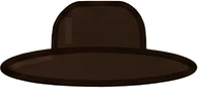
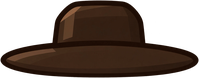
Fit the refined drifter torsos, cowboy hat and weapon arms
Each arm gets a red and a blue sleeve to match the vest (red) or plain (blue) shirt.

Claude-Session: https://claude.ai/code/session_01BFBgQDRtwohmswCU4dZyTG

diff --git a/src/config.js b/src/config.js
@@ -192,7 +192,13 @@ function lookFor(type, boss, rng) {
           hat: 'hat_undertaker', arm_revolver: 'arm_revolver_undertaker', leg: 'leg_undertaker', armor: 'none' } };
     default:
       if (boss) return base;
-      return { ...base, ...art(base.vest ? 'torso_vest' : 'torso_plain', base.bandana ? 'head_bandana' : 'head', 'hat_cowboy') };
+      {
+        // Refined drifter art: a red shirt with a vest or a plain blue shirt, with sleeves to match
+        const look = { ...base, ...art(base.vest ? 'torso_vest' : 'torso_plain', base.bandana ? 'head_bandana' : 'head', 'hat_cowboy') };
+        const sleeve = base.vest ? 'red' : 'blue';
+        Object.assign(look.artParts, { arm_revolver: `arm_revolver_${sleeve}`, arm_shotgun: `arm_shotgun_${sleeve}` });
+        return look;
+      }
   }
 }
 

diff --git a/tools/fit_drifter_parts.py b/tools/fit_drifter_parts.py
@@ -1,0 +1,110 @@
+# Fit the refined drifter parts (the plain outlaws) and add them to the outlaw art set.
+#
+#   python3 -I tools/fit_drifter_parts.py docs/character-parts/refined/drifter public/art/outlaw
+#   cp public/art/outlaw/manifest.json src/art/outlaw.json
+#
+# Torsos are scaled by height (top at y = -93, belt bottom at the hips, 49 units), the cowboy hat by brim
+# width (66 units), arms by sleeve thickness (15 units, shoulder 7 units in). Drifters wear a red shirt
+# (vest torso) or a blue one (plain torso), so each weapon arm is saved with a red and a blue sleeve:
+# the sleeve (everything left of the hand) is recoloured, keeping its shading. Requires Pillow.
+import colorsys, glob, json, sys
+from PIL import Image
+
+SRC, OUT = sys.argv[1], sys.argv[2]
+PPU = 3
+SLEEVES = {'red': (177, 43, 38), 'blue': (39, 63, 96)}  # sampled from the two torsos
+
+def load_im(name):
+    return Image.open(glob.glob(f"{SRC}/drifter_{name}.*")[0]).convert('RGBA')
+
+def alpha(im):
+    a = im.getchannel('A').point(lambda v: 255 if v > 60 else 0)
+    return a, a.getbbox()
+
+def span_row(a, y):
+    xs = [x for x in range(a.size[0]) if a.getpixel((x, y))]
+    return (min(xs), max(xs))
+
+def span_col(a, x):
+    ys = [y for y in range(a.size[1]) if a.getpixel((x, y))]
+    return (min(ys), max(ys))
+
+def emit(key, im, bbox, ppu, anchor_px, anchor_game, extra=None):
+    m = 4
+    l, t = max(0, bbox[0] - m), max(0, bbox[1] - m)
+    r, b = min(im.width, bbox[2] + m), min(im.height, bbox[3] + m)
+    crop = im.crop((l, t, r, b))
+    k = PPU / ppu
+    out = crop.resize((max(1, round(crop.width * k)), max(1, round(crop.height * k))), Image.LANCZOS)
+    out.save(f"{OUT}/{key}.png")
+    info = {"file": f"{key}.png", "size": [out.width, out.height],
+            "anchor_px": [round((anchor_px[0] - l) * k, 1), round((anchor_px[1] - t) * k, 1)],
+            "anchor_game": anchor_game, "src_ppu": round(ppu, 2)}
+    if extra: info.update(extra)
+    return info
+
+def is_skin(c):
+    r, g, b = c[:3]
+    return c[3] > 200 and r > 200 and g > 140 and b > 90 and r - b > 60
+
+def recolour_sleeve(im, target):
+    """Give the sleeve (left of the hand) the target colour, keeping light and shade; outlines stay."""
+    im = im.copy()
+    px = im.load()
+    w, h = im.size
+    hand_x = min(x for x in range(w) for y in range(0, h, 4) if is_skin(px[x, y]))
+    # the sleeve's own colour: the most common non-outline colour in its middle
+    a, bb = alpha(im)
+    cy = (bb[1] + bb[3]) // 2
+    samples = sorted(px[x, cy][:3] for x in range(bb[0] + 40, hand_x - 40, 7) if px[x, cy][3] > 200)
+    base = samples[len(samples) // 2]
+    bh, bl, bs = colorsys.rgb_to_hls(*[v / 255 for v in base])
+    th, tl, ts = colorsys.rgb_to_hls(*[v / 255 for v in target])
+    for y in range(h):
+        for x in range(hand_x):
+            r, g, b, al = px[x, y]
+            if al == 0:
+                continue
+            hh, ll, ss = colorsys.rgb_to_hls(r / 255, g / 255, b / 255)
+            # sleeve pixels share the base colour's hue; the dark brown outline doesn't
+            if abs(((hh - bh + 0.5) % 1) - 0.5) > 0.08 or ss < bs * 0.4:
+                continue
+            nl = max(0, min(1, tl * ll / bl))
+            nr, ng, nb = colorsys.hls_to_rgb(th, nl, ts)
+            px[x, y] = (round(nr * 255), round(ng * 255), round(nb * 255), al)
+    return im
+
+def arm(key, im):
+    a, bb = alpha(im)
+    W = bb[2] - bb[0]
+    y1, y2 = span_col(a, bb[0] + int(W * 0.12))
+    ppu = (y2 - y1) / 15.0
+    pivot = (bb[0] + 7.0 * ppu, (y1 + y2) / 2)
+    bx = bb[2] - 6
+    b1, b2 = span_col(a, bx)
+    muzzle = [round((bx - pivot[0]) / ppu, 1), round(((b1 + b2) / 2 - pivot[1]) / ppu, 1)]
+    return emit(key, im, bb, ppu, pivot, [0, 0], {"muzzle": muzzle})
+
+manifest = json.load(open(f"{OUT}/manifest.json"))
+
+for key in ('torso_vest', 'torso_plain'):
+    im = load_im(key)
+    a, bb = alpha(im)
+    ppu = (bb[3] - bb[1]) / 49.0
+    manifest[key] = emit(key, im, bb, ppu, ((bb[0] + bb[2]) / 2, bb[1]), [0, -93])
+
+im = load_im('hat_cowboy')
+a, bb = alpha(im)
+manifest['hat_cowboy'] = emit('hat_cowboy', im, bb, (bb[2] - bb[0]) / 66.0, ((bb[0] + bb[2]) / 2, bb[3]), [2, -113.5])
+
+for weapon in ('revolver', 'shotgun'):
+    im = load_im('arm_' + weapon)
+    for colour, rgb in SLEEVES.items():
+        key = f'arm_{weapon}_{colour}'
+        manifest[key] = arm(key, recolour_sleeve(im, rgb))
+manifest['arm_revolver'] = dict(manifest['arm_revolver_red'])  # default for looks that don't pick a colour
+
+json.dump(manifest, open(f"{OUT}/manifest.json", "w"), indent=1)
+for k in ('torso_vest', 'torso_plain', 'hat_cowboy', 'arm_revolver_red', 'arm_revolver_blue', 'arm_shotgun_red', 'arm_shotgun_blue'):
+    v = manifest[k]
+    print(f"{k:18s} size={v['size']} src_ppu={v['src_ppu']} {v.get('muzzle', '')}")

diff --git a/docs/character-parts/README.md b/docs/character-parts/README.md
@@ -107,6 +107,7 @@ The head, torso, leg, revolver arm and hat have been **fitted** and are used for
 | Dynamite Dan | reference, torso (vest, belt and pouch), head, dead head, dynamite arm, bowler, leg | `torso_dynamite_dan` (46 units wide, belt at the hips, pouch down to y = -31.5), `head_dynamite_dan` / `head_dead_dynamite_dan` (skull 40 units), `arm_dynamite_dynamite_dan` (fuse tip (43.4, -30.1), where a thrown stick starts), `hat_dynamite_dan` (brim 52 units; the crown showing below the brim sits over the forehead), `leg_dynamite_dan`. |
 | Hider | reference, torso (jacket, belt and pouch), head and dead head (with bandana), revolver arm, flat hat, leg | `torso_hider` (46 units wide, pouch down to y = -25), `head_hider` / `head_dead_hider` (45 units tall: skull 40 plus the bandana knot), `arm_revolver_hider` (muzzle (82.3, -7.8)), `hat_hider` (brim 78 units), `leg_hider`. He always carries a revolver; his gun arm is hidden while he crouches behind the barrel. |
 | The Undertaker | reference, torso (long coat with the steel plate), head, dead head, revolver arm, top hat, leg | `torso_undertaker` (46 units wide, coat down to y = -20), `head_undertaker` / `head_dead_undertaker` (skull 40 units), `arm_revolver_undertaker` (muzzle (83.6, -6.6)), `hat_undertaker` (brim 56 units), `leg_undertaker`. The plate is part of his torso image, so the separate armor overlay is off for him (`armor: 'none'` in his parts); his body shots still take 25% damage. |
+| Drifters | vest torso (red shirt), plain torso (blue shirt), cowboy hat, revolver arm, shotgun arm | `torso_vest` / `torso_plain` (49 units from the top at y = -93 down to the belt at the hips), `hat_cowboy` (brim 66 units), `arm_revolver_red` / `_blue` (muzzle (86.5, -7.6)), `arm_shotgun_red` / `_blue` (muzzle (100.2, -6.8)). Each arm is saved with a red and a blue sleeve (recoloured, keeping the shading) to match the shirt. Heads and the leg are still the sheet cut-outs. Fit tool: `tools/fit_drifter_parts.py`. |
 
 Fit new outlaw parts with `python3 -I tools/fit_outlaw_parts.py docs/character-parts/refined/<type> <type> public/art/outlaw`, copy the manifest to `src/art/outlaw.json` and map the parts in `lookFor()` (`src/config.js`).
 
@@ -117,7 +118,7 @@ All sheriff parts are now refined. Fit tools: `tools/fit_sheriff_art.py` (head, 
 `refined/character_set_sheet.webp` is the full refined set on one sheet (1774 × 887, no transparency). As a **rough preview**, its parts were cut out (cream background removed), fitted with the same rules and put in the game:
 
 - **Sheriff extras**: replaced by the refined versions above.
-- **Outlaws** (`public/art/outlaw/`): leg, vest and plain torsos, plain, bandana and dead heads, revolver and off-hand arms, and the four hats. Drifters use them; the gunslinger boss is still code-drawn.
+- **Outlaws** (`public/art/outlaw/`): leg, plain, bandana and dead heads, off-hand arm and the flat, top and bowler hats. Drifters still use the leg and heads; the gunslinger boss is still code-drawn.
 
 These cut-outs are low-resolution (each part was only 100–250 px on the sheet), so they're placeholders until the individual high-resolution transparent PNGs arrive.
 

diff --git a/docs/character-parts/still-to-redraw/README.md b/docs/character-parts/still-to-redraw/README.md
@@ -8,7 +8,7 @@ Everything in the game that doesn't use refined high-resolution art yet, as tran
 
 ## Drifters (the ordinary outlaws)
 
-Also from the character sheet, low resolution. Drifters mix and match: a vest or plain torso, a head with or without a bandana, the cowboy hat, and usually a revolver (sometimes a shotgun).
+**Done**: both torsos, the cowboy hat, and the revolver and shotgun arms. **Still needed**: the heads (plain, dead, bandana and a new bandana dead head) and the leg, which are still the low-resolution sheet cut-outs. Drifters mix and match: a vest or plain torso, a head with or without a bandana, the cowboy hat, and usually a revolver (sometimes a shotgun).
 
 | File | Notes |
 |---|---|
